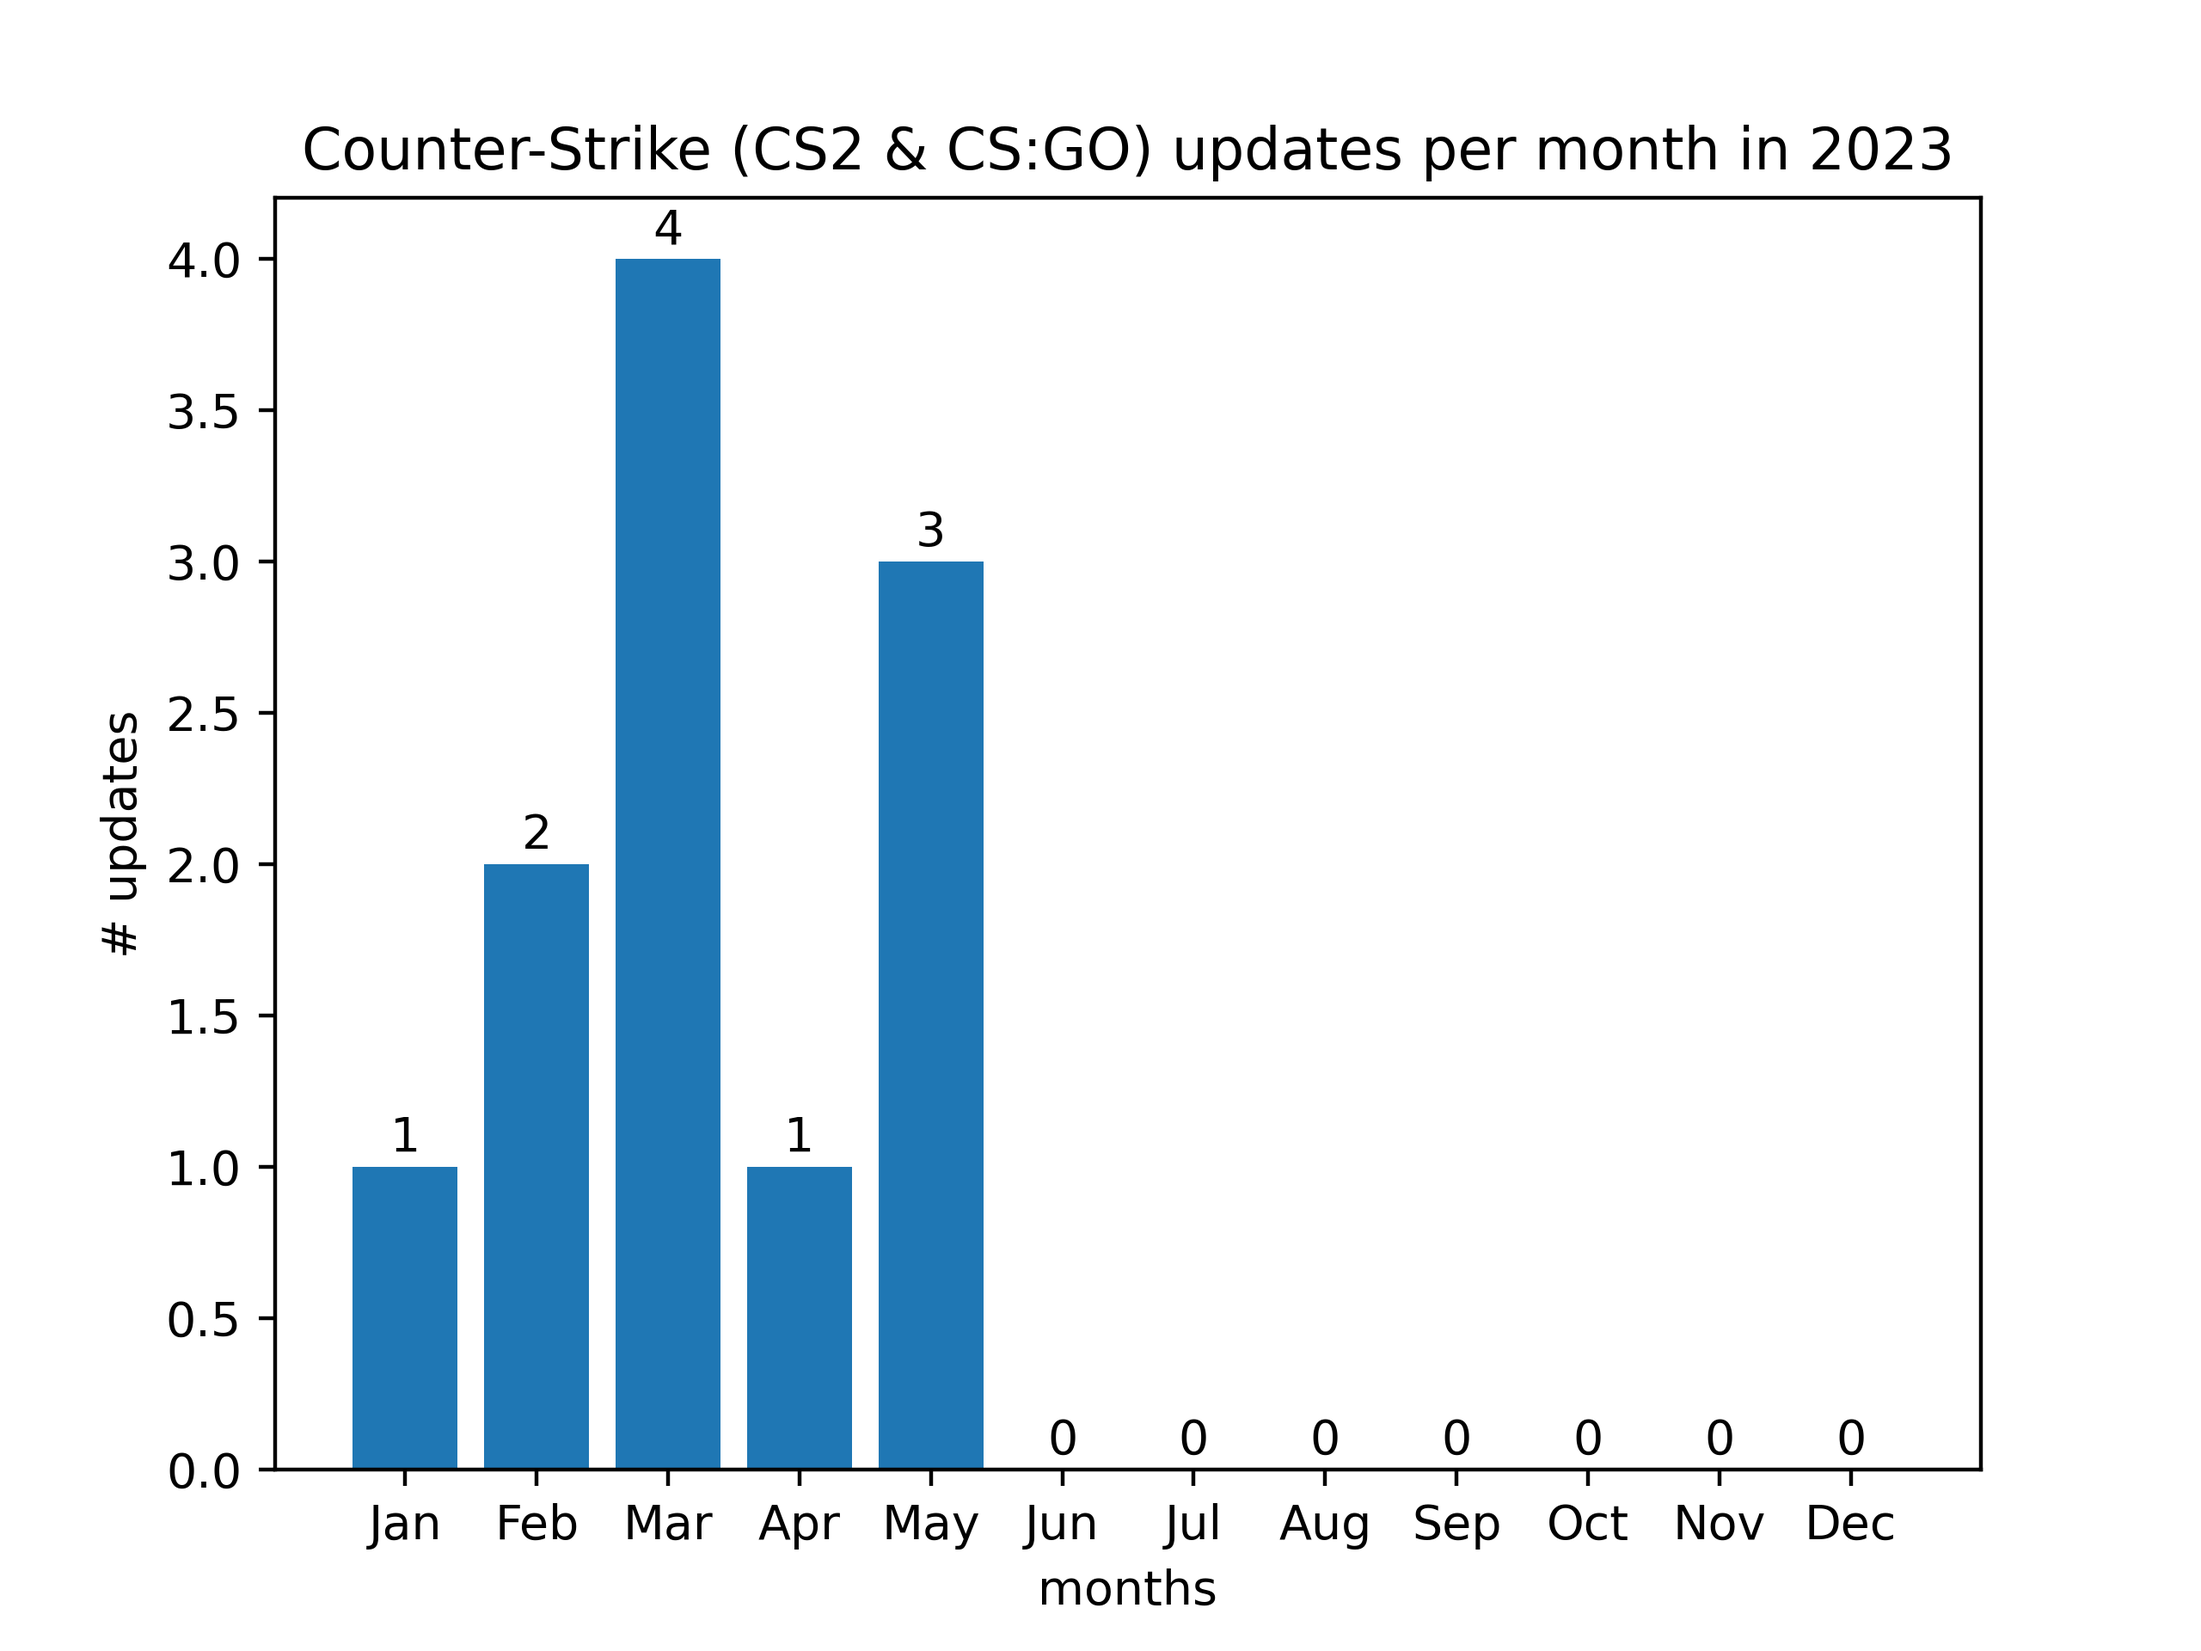
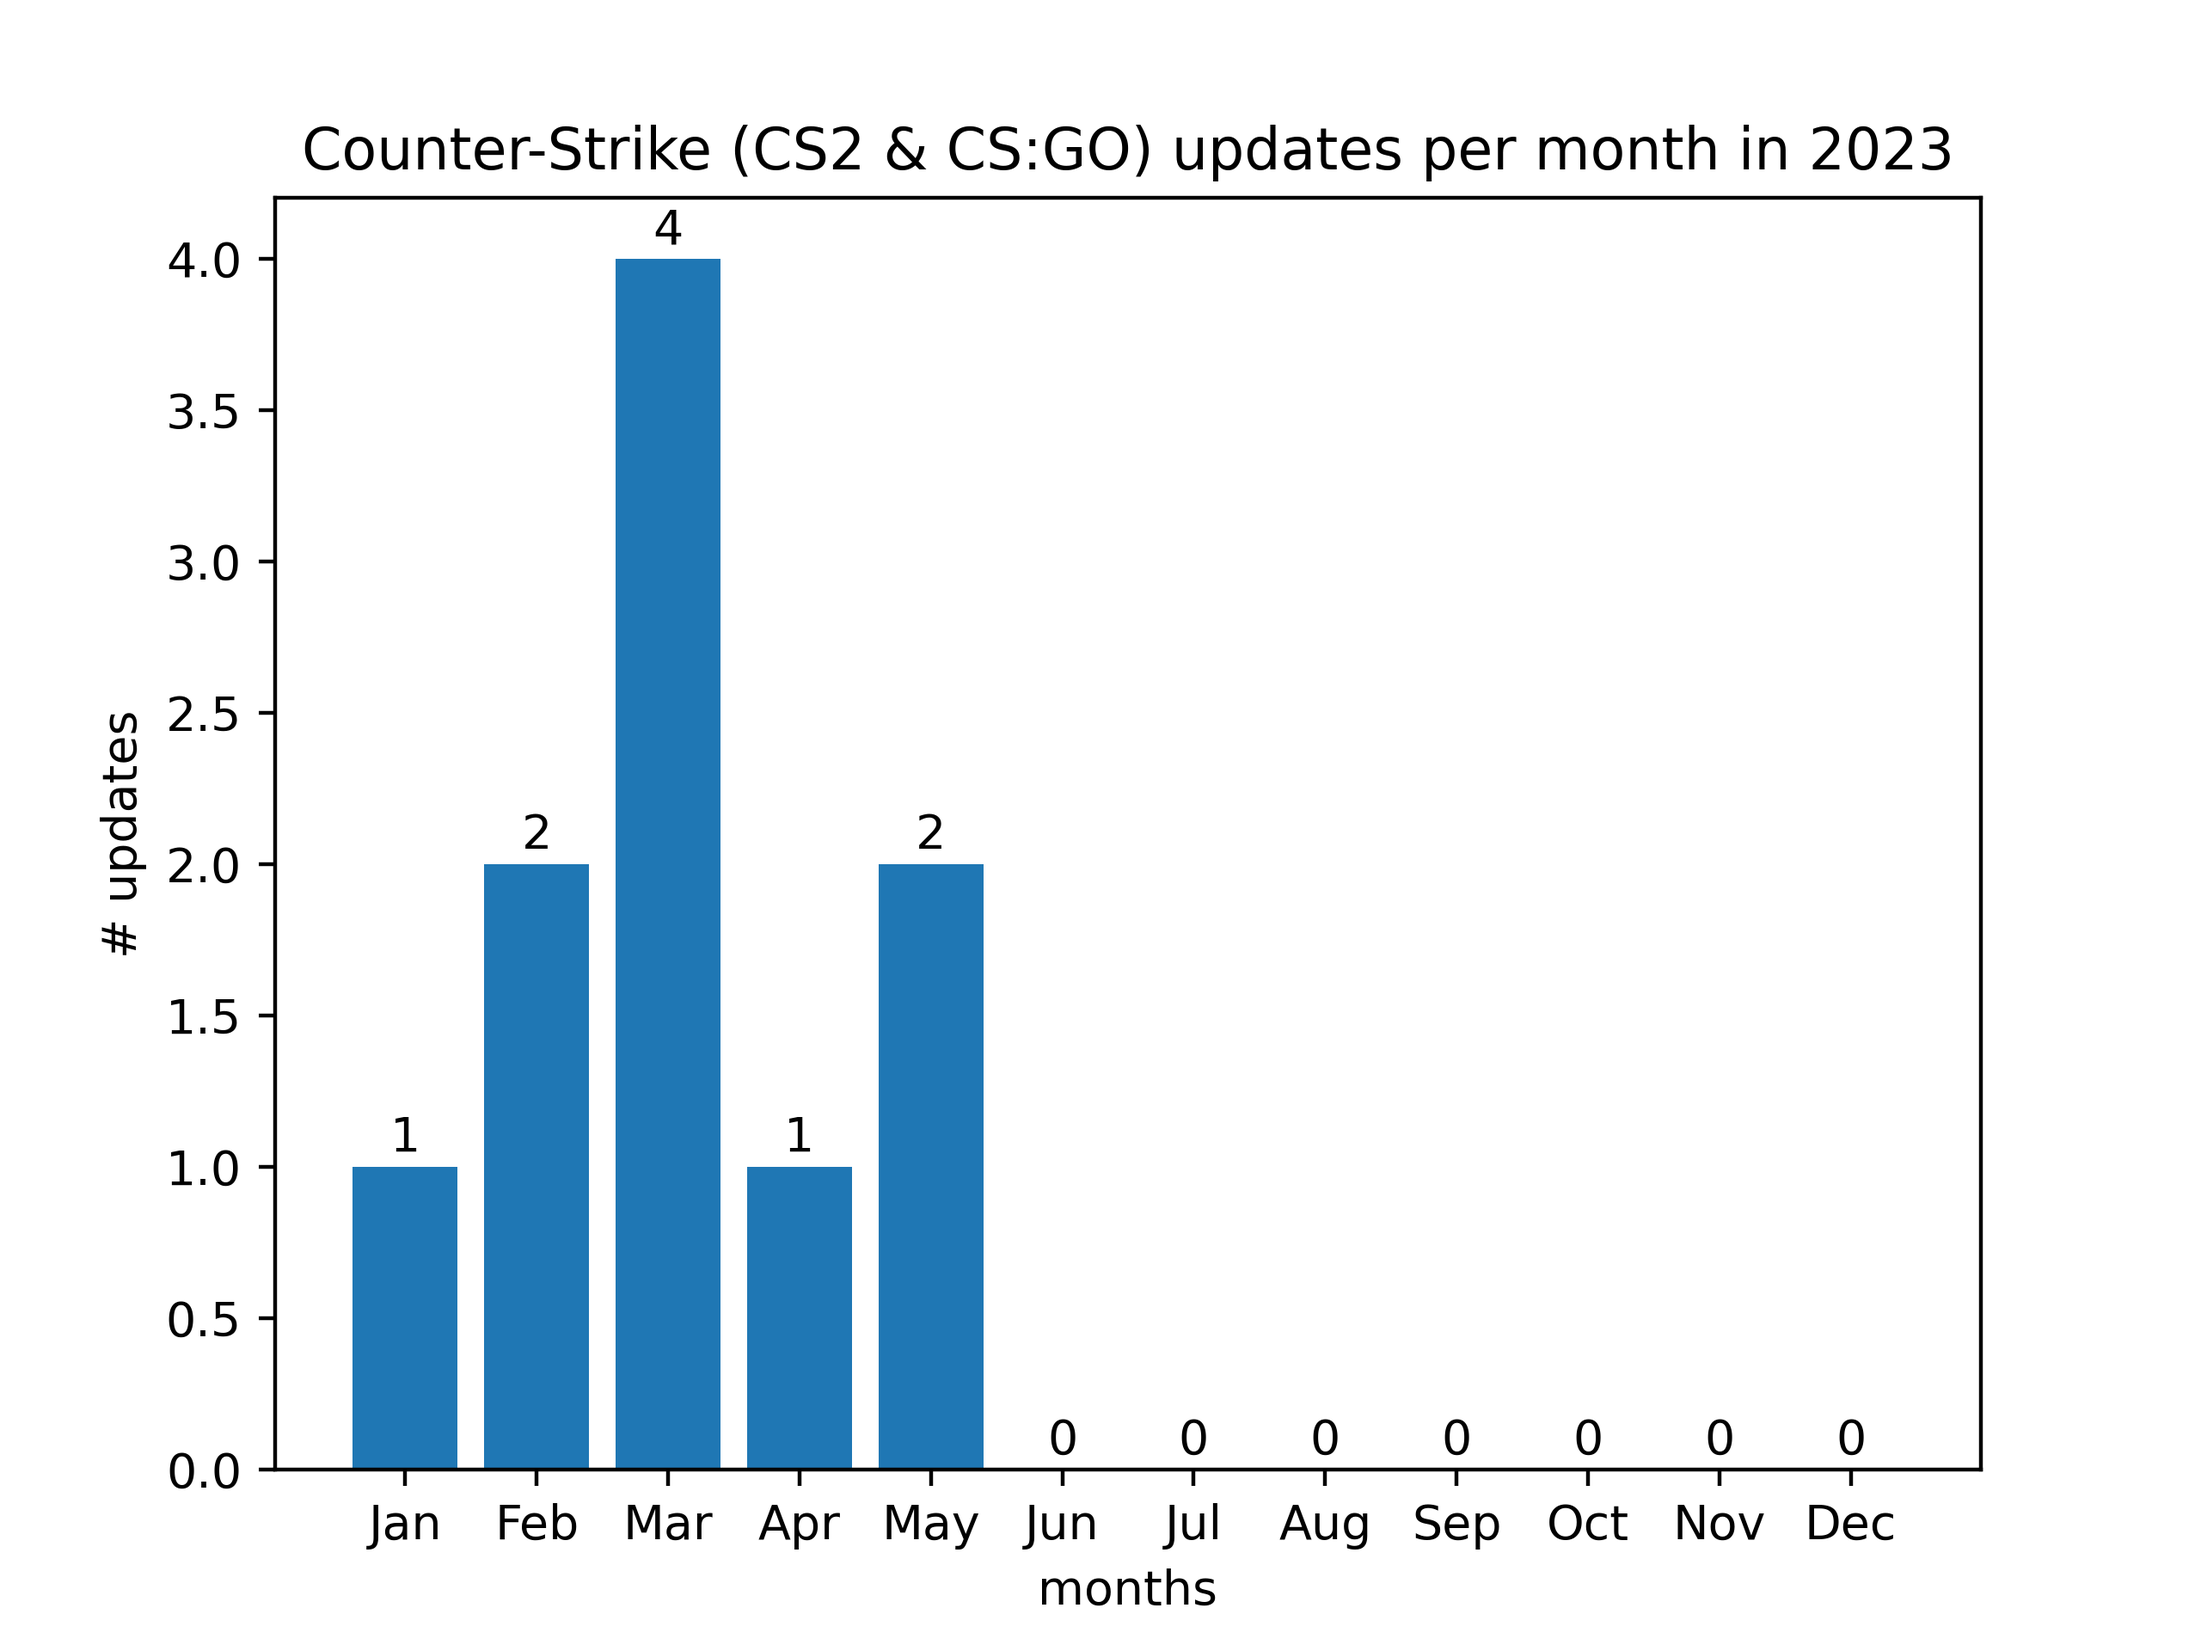
filter only release notes events

Changed region(s): [[0.375, 0.3125, 0.4688, 0.5312]]

diff --git a/src/cs2/update_crawler.py b/src/cs2/update_crawler.py
@@ -5,10 +5,11 @@ import requests
 import logging
 
 from pathlib import Path
-from datetime import datetime
 
 
 class CounterStrike2Updates:
+
+    RELEASE_NOTES_EVENT: int = 12
 
     def __init__(self) -> None:
 
@@ -23,32 +24,35 @@ class CounterStrike2Updates:
             "&count=100" \
             "&l=english" \
             "&origin=https://www.counter-strike.net"
-        
+
         self.__data = []
 
     @property
     def url(self) -> str:
         return self.__url
-    
+
     @property
     def data(self) -> dict:
         return self.__data
-    
+
     @property
     def latest(self) -> dict:
         return self.__data[0]
 
-    def crawl(self, only_cs2=True) -> CounterStrike2Updates:
+    def crawl(self, only_cs2: bool = True) -> CounterStrike2Updates:
         logging.info("Start")
-        
+
         response = requests.get(self.url)
 
         if not response.ok:
             raise Exception(f'Could not fetch data received response code={response.status_code}')
-        
+
         data = json.loads(response.text)
 
         for event in data['events']:
+            if event['event_type'] != self.RELEASE_NOTES_EVENT:
+                continue
+
             self.__data.append(event['announcement_body'])
 
         if only_cs2:

diff --git a/tests/utils/utils_csgo_test.py b/tests/utils/utils_csgo_test.py
@@ -32,3 +32,23 @@ def test_csgo_updates_per_year(data):
 
     with pytest.raises(KeyError):
         csgo_histogram['2011']
+
+
+def test_csgo_updates_per_month_of_year(data):
+    csgo_data = CSGODataUtils.updates_per_month_of_year(data, 2012)
+    assert len(csgo_data) == 12
+    assert csgo_data['Mar'] == 1
+    assert csgo_data['Jan'] == 0
+
+
+def test_csgo_updates_tags_histogram(data):
+    csgo_data = CSGODataUtils.tags_histogram(data)
+    assert len(csgo_data) == 11
+    assert csgo_data['maps'] == 2
+    assert csgo_data['bug fixes'] == 1
+    
+    with pytest.raises(KeyError):
+        csgo_data['bug']
+
+    csgo_data = CSGODataUtils.tags_histogram({})
+    assert len(csgo_data) == 0

diff --git a/update.py b/update.py
@@ -1,8 +1,8 @@
 import json
 
-import matplotlib.pyplot as plt
 from pathlib import Path
 from datetime import datetime
+import matplotlib.pyplot as plt
 
 from src.utils.cs2 import CS2DataUtils
 from src.utils.csgo import CSGODataUtils
@@ -76,7 +76,7 @@ def main() -> int:
     if latest_saved_entry['posttime'] == cs_latest_update['posttime']:
         print("No new Counter-Strike update post!")
         print(f"Date is the same {datetime.fromtimestamp(cs_latest_update['posttime'])}")
-        return
+        return 0
 
     print("New Counter-Strike update found ...")
     print(f"Update data with new entry: {datetime.fromtimestamp(cs_latest_update['posttime'])}")
